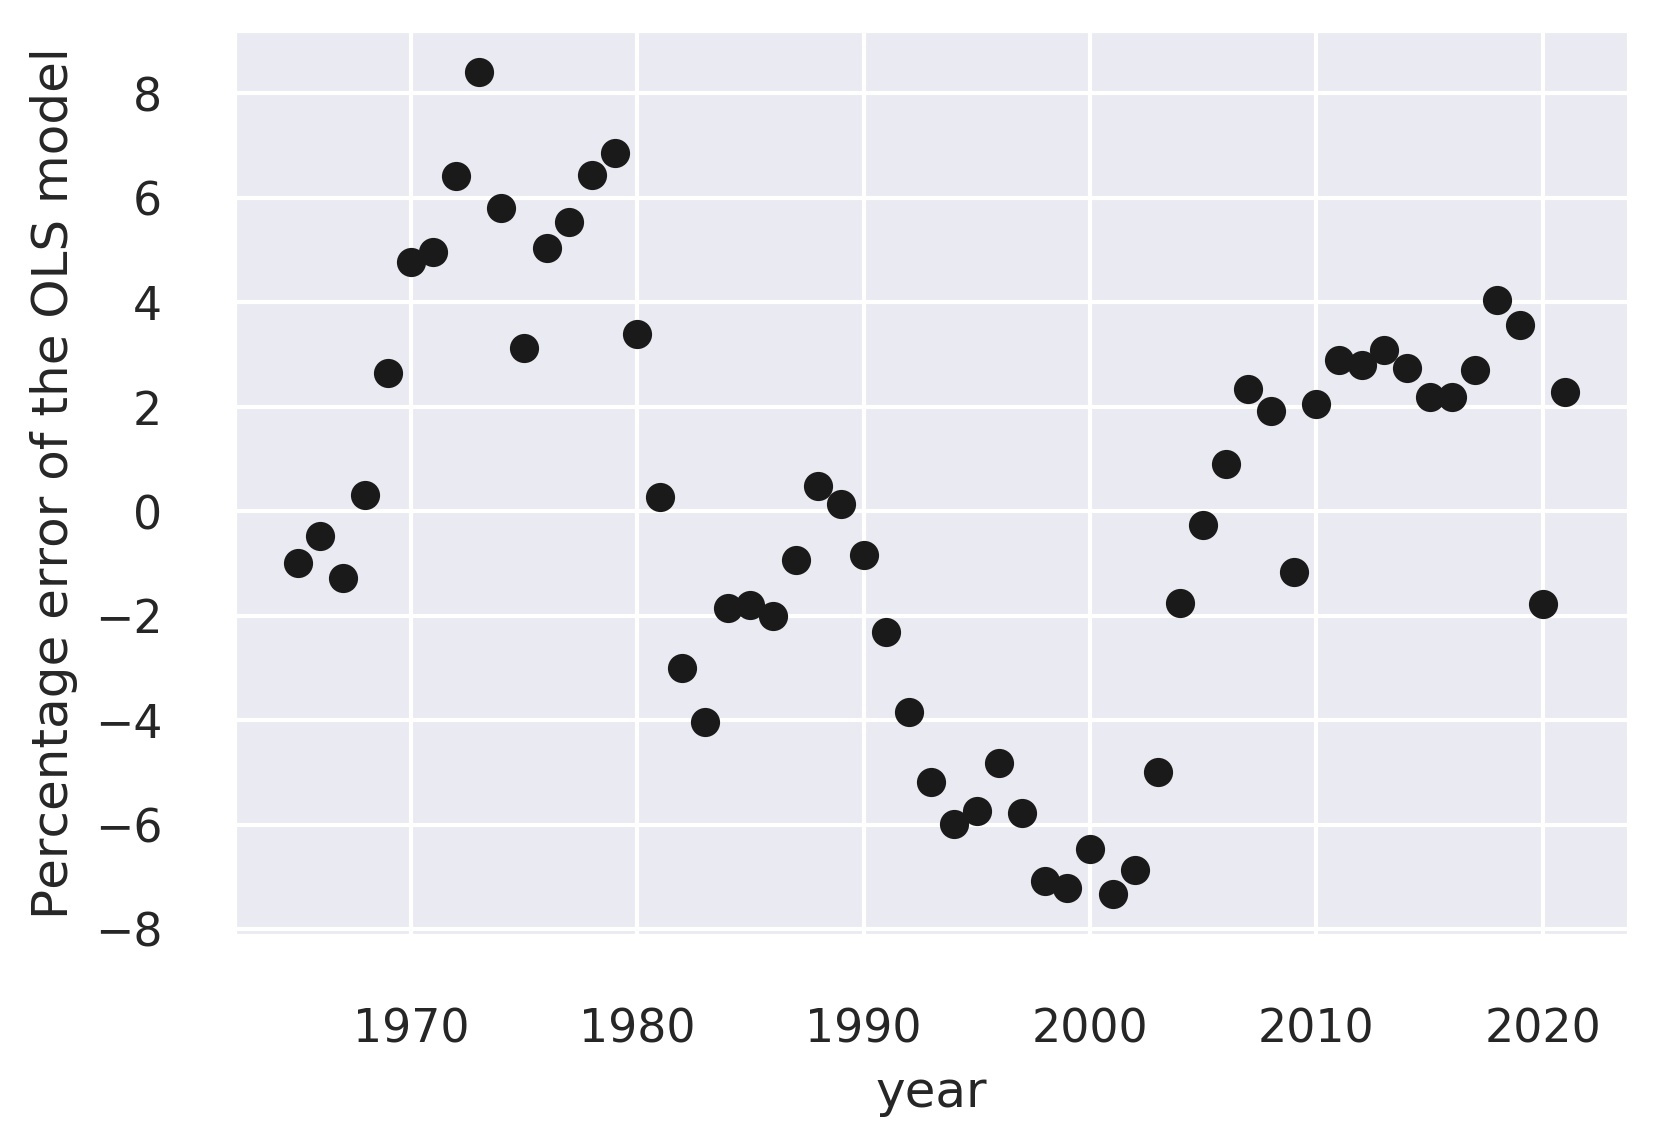
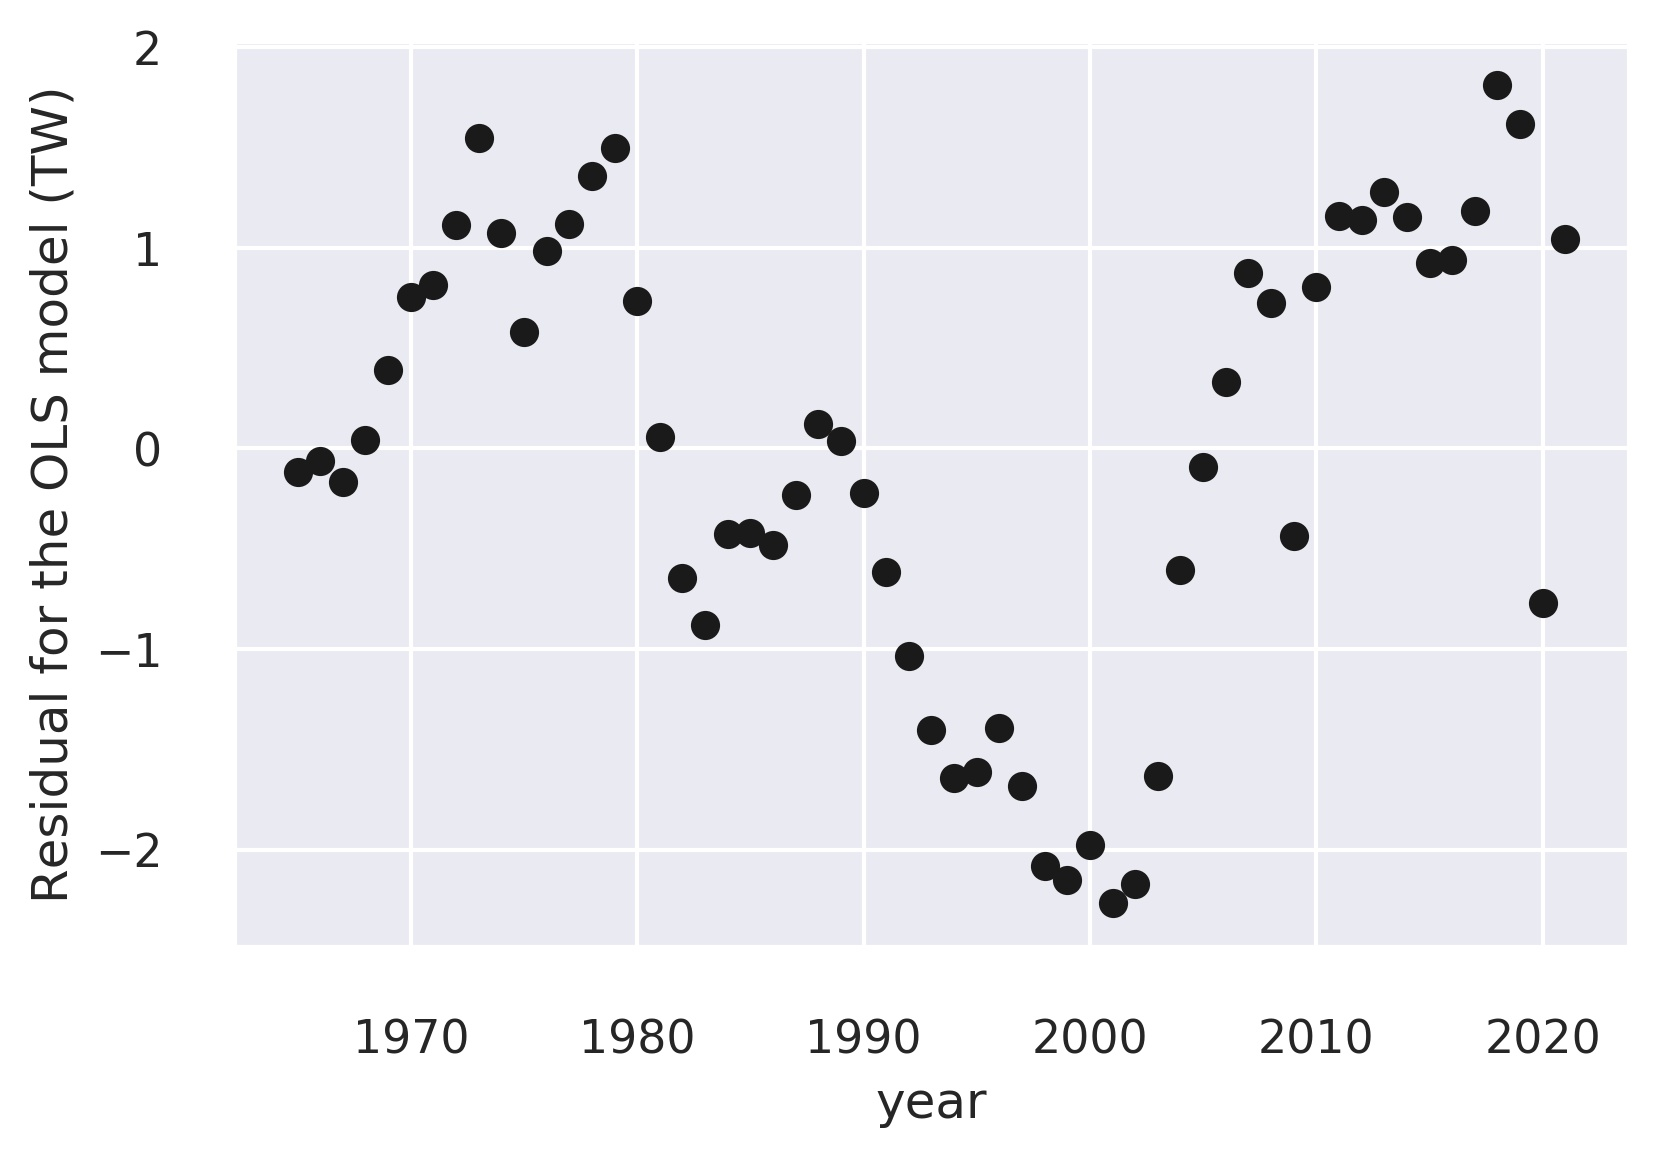
Updates from Overleaf

diff --git a/astroblock.tex b/astroblock.tex
@@ -101,7 +101,7 @@ Blockchain \sep Open Development
 \end{frontmatter}
 
 This white paper (WP) examines Public Open Blockchain (OB) ledger technology as a value optimization and interoperability agent for Astronomy Open Development (AOD). A comprehensive review of OB ledger technology: the evolution of protocols, key ideas \& primitives that lead to the so-called Nakamoto consensus effectively solving the Byzantine Generals problem defined by \cite{Lamport1982TheBG} is treated in  \cite{arvindandclark2017} and references therein. In Sec. \ref{sec:intro} of this WP a connection is made between OB to the possible evolution of the computer and computer data-science systems that have already co-evolved with advances in astronomy and astrophysics, hereafter astronomy. If OB technology is indeed a nascent corner-stone disruptive technology it seems reasonable for it to be considered for the Open Decentralized Development of Astronomy, as expanded on in Sec. \ref{sec:bc_review} and through-out this WP.  A short review of OB technology is given that is based on figure 1 of \cite{arvindandclark2017} that via the Nakamoto consensus includes DESCI and DEFI, two key ideas that are taken as implicit to AOD but made more explicit in this WP added schematically into 
-Fig. \ref{fig:narayanan}. In this short review other (block) chains based on other protocols are also identified, mostly for historical reasons but also because of potential of use in AOD. An astronomy token for AOD is also not ruled out, one that may be pre-mined and distributed to IVOA, IAU, Astropy and other identified community members. In Sec. \ref{sec:energy} a connection between OB and astronomy is made via the Kardashev relation, originally one between energy consumption versus time for civilizations reaching radio communication capability where it is shown that Energy data for our civilization is inconsistent with the family of constant percentage yearly increase models of global Energy production (when taken as an upper limit to consumption). Constant increase models have the form $(1+x)^{t}$, for $x<< 1$, and include the until now standard one-percent model as originally proposed by \cite{kar64} and by later studies, for example:  \citet{sagan73} and \cite{gray2020}. Data is shown not to be consistent with these constant increase models, since restricting $x$ to positive real values violates the property of memory conservation that for any civilization it is now argued would be sub-optimal to longevity. Kardashev's one percent growth-rate model for $x=0.01$, hereafter the 1\% model is therefore rejected over a preferred OLS linear re-normalized model. For the analysis we first empirically estimate the growth rate of the Kardashev relation with a linear OLS fit to data that offers considerably lower dispersion over six decades of time than does the exponential model. Interestingly the OLS linear fit when extrapolated to an energy production attainment equal the total bolometric luminosity of The Sun (equivalent to Kardashev type ii) results in a $\Delta T$ of about ten orders of magnitude greater than that predicted by the one-percent model as originally proposed by \cite{kar64}; in fact it is five orders of magnitude greater than $1/H{_0}$, where $H_{0}$ is the Hubble Constant, that is, the Hubble time or age of The Universe given the $\Lambda$CDM paradigm, that would seem to imply that there is no type ii civilization in The Universe! To reconcile the Kardashev type ii timescale of 3200 years, as predicted by the historical one-percent model with the Drake equation we assume a Nakamoto type consensus to be common in The Galaxy and so we take the Nakamoto consensus and build it into a new modified Kardashev model by re-normalizing the Total Energy Production metric by the Bitcoin hash-rate. In other words, the decision to re-normalize the OLS Kardashev fit was also made to fulfill the requirement of information-richness necessary to `Secure an enormous quantity of information', as originally proposed by Kardashev and simultaneously considering that the Drake equation that predicts the number of radio-capable civilizations in The Universe, includes the critical factor, $L$, that represents the average existence window for any advanced radio-capable civilization. Since most astronomers believe we are not alone, nor we are that advanced, so it may be somewhat expected that $L$ is dependant on the ability of co-operation and therefore a decentralized medium of exchange one sensitive to global issues (perhaps Universal, see Sec. Discussion) like energy production, war, environment and resource management, may also be required. Something that the Bitcoin network purports to fix. The timely nature of this WP may be reflected by the fact that in 2023 the Bulletin of the Atomic Scientists have forward the Doomsday Clock by ten seconds to 23h:58m:30s reaching 90 second to midnight, the closest it has come to midnight than in any other period in Human history and that there is some expectation that with the war in Europe it may be further adjusted forward towards midnight in Jan 2024. The renormalized Kardashev scale is argued to reflect a Universal common digital gold standard for AOD and beyond, one the paves the way forward for innovation through transactional protocols that are based on it that preserve information-richness.  In Sec. \ref{sec:btc4} specific use-cases of OB for AOD are selected and in Sec. 5 and 6 future application prospects and further discussion are respectively considered.
+Fig. \ref{fig:narayanan}. In this short review other (block) chains based on other protocols are also identified, mostly for historical reasons but also because of potential of use in AOD. An astronomy token for AOD is also not ruled out, one that may be pre-mined and distributed to IVOA, IAU, Astropy and other identified community members. In Sec. \ref{sec:energy} a connection between OB and astronomy is made via the Kardashev relation, originally one between energy consumption versus time for civilizations reaching radio communication capability where it is shown that Energy data for our civilization is inconsistent with the family of constant percentage yearly increase models of global Energy production (when taken as an upper limit to consumption). Constant increase models have the form $(1+x)^{t}$, for $x<< 1$, and include the until now standard one-percent model as originally proposed by \cite{kar64} and by later studies, for example:  \citet{sagan73} and \cite{gray2020}. Data is shown not to be consistent with these constant increase models, since restricting $x$ to positive real values violates the property of memory conservation that for any civilization it is now argued would be sub-optimal to longevity. Kardashev's one percent growth-rate model for $x=0.01$, hereafter the 1\% model is therefore rejected over a preferred OLS linear re-normalized model. For the analysis we first empirically estimate the growth rate of the Kardashev relation with a linear OLS fit to data that offers considerably lower dispersion over six decades of time than does the exponential model. Interestingly the OLS linear fit when extrapolated to an energy production attainment equal the total bolometric luminosity of The Sun (equivalent to Kardashev type ii) results in a $\Delta T$ of about ten orders of magnitude greater than that predicted by the one-percent model as originally proposed by \cite{kar64}; in fact it is five orders of magnitude greater than $1/H{_0}$, where $H_{0}$ is the Hubble Constant, that is, the Hubble time or age of The Universe given the $\Lambda$CDM paradigm. This would seem to imply that there is probably no type ii civilization in The Universe! To reconcile the Kardashev type ii timescale of 3200 years, as predicted by the historical one-percent model with the Drake equation, we assume a Nakamoto type consensus to be common in The Galaxy and so we take the Nakamoto consensus and build it into a new modified Kardashev model by re-normalizing the Total Energy Production metric by the Bitcoin hash-rate. In other words, the decision to re-normalize the OLS Kardashev fit was also made to fulfill the requirement of information-richness necessary to `Secure an enormous quantity of information', as originally proposed by Kardashev and simultaneously considering that the Drake equation that predicts the number of radio-capable civilizations in The Universe, includes the critical factor, $L$, that represents the average existence window for any advanced radio-capable civilization. Since most astronomers believe we are not alone, nor we are that advanced, so it may be somewhat expected that $L$ is dependant on the ability of co-operation and therefore a decentralized medium of exchange one sensitive to global issues (perhaps Universal, see Sec. Discussion) like energy production, war, environment and resource management, may also be required. Something that the Bitcoin network purports to fix. The timely nature of this WP may be reflected by the fact that in 2023 the Bulletin of the Atomic Scientists have forward the Doomsday Clock by ten seconds to 23h:58m:30s reaching 90 second to midnight, the closest it has come to midnight than in any other period in Human history and that there is some expectation that with the war in Europe it may be further adjusted forward towards midnight in Jan 2024. The renormalized Kardashev scale is argued to reflect a Universal common digital gold standard for AOD and beyond, one the paves the way forward for innovation through transactional protocols that are based on it that preserve information-richness.  In Sec. \ref{sec:btc4} specific use-cases of OB for AOD are selected and in Sec. 5 and 6 future application prospects and further discussion are respectively considered.
 
 %This WP starts out discussing the half-life career function \cite{milo_2018} of US PhD Astronomy majors as a broad proxy metric of value for the global market, chosen because of the sheer size of the US research astronomy labour market. This function trends towards historical lows and given the resources it costs to produce a PhD astronomy major, must be analyzed in some context. Perhaps this could be sufficient motivation for the consideration of a complimentary development Blockchain based system for astronomy OD, itself. However, other issues that have lead to artificial barriers in Astronomy \& astrophysics development are also explored in other sections of this paper. Finally, other STEM communities may also find use in this white-paper since Open Source and Open Development standard protocols appear to experience common data-science constraints and a unifying and converging of methods across different scientific disciplines manifest, so sufficient motivation of Blockchain Open Development for other STEM fields may be warranted. %\cite{GITTER2008529} to prevent closed patent licensing] or Pandemic COVID 'data-science'.
 
@@ -280,7 +280,7 @@ The Power data is taken directly from \href{https://github.com/owid/energy-data}
 
 The total bitcoin Hash-rate is estimated from the minning difficulty which is determined every two weeks and number of blocks being minned. For this study we use the \href{https://data.nasdaq.com/data/BCHAIN/HRATE-bitcoin-hash-rate}{hashrate}. We determine the mean yearly hash-rate for every year from 2009 to 2022. Table XX shows the average hash-rate and year. 
 
-We first show the original Kardashev model using the Power data from 1964 to 2021 and with an OLS fit linear model and solve our OLS fit to the type II Power limit as determined by \cite{kar64} that is also consistent with \cite{sagan73}. So we decide to renormalize the Power rate by assuming bitcoinization or bitcoin monitization and the extrapolation of Global Energy usage we assume Bitcoin value-layer to also be locked with Global Energy production. In \cite{sagan73} an alternate information metric is considered for the Kardashev law, one that includes information richness to characterize civilizations. This can be represented in a Binary operation even a Binary Tree which share the Hash tree or Merkel tree structure. Interesting, the Bitcoin Network Ledger which contains transaction information of every single Bitcoin transaction may also be used between non-humans. This may be the sense of "Smart Contracts" by Nick Szabo. The Bitcoin hash-rate as a function of time we take to represent a type of Energy Production metric and simultaneously preserve the Information richness required in our model. We take data complied from the International Energy Agency and BP, from \cite{owidenergy} and plot the total yearly power production available for The Earth. In Fig \ref{fig:kardashev1}, we show actual data since 1964 from \cite{owidenergy}. We show two models, the Kardashev Equation \ref{eq:2} 1\% model, taking the first point of the actual 1964 data and a OLS model to the data. Interesting the second last datum point shows a 3 percent decline in production in 2020 (Due to COVID) and a 5 percent increase in production in 2021 breaking the COVID-19 pandemic year! A slump due to the 2008 sub-prime crisis that gave rise to the Nakamoto consensus is shown. The extrapolated model is closely linear!
+We first show the original Kardashev model using the Power data from 1964 to 2021 and with an OLS fit linear model and solve our OLS fit to the type II Power limit as determined by \cite{kar64} that is also consistent with \cite{sagan73}. So we decide to renormalize the Power rate by assuming bitcoinization or bitcoin monitization and the extrapolation of Global Energy usage we assume Bitcoin value-layer to also be locked with Global Energy production. In \cite{sagan73} an alternate information metric is considered for the Kardashev law, one that includes information richness to characterize civilizations. This can be represented in a Binary operation even a Binary Tree which share the Hash tree or Merkel tree structure. Interesting, the Bitcoin Network Ledger which contains transaction information of every single Bitcoin transaction may also be used between non-humans. This may be the sense of "Smart Contracts" by Nick Szabo. The Bitcoin hash-rate as a function of time we take to represent a type of Energy Production metric and simultaneously preserve the Information richness required in our model. We take data complied from the International Energy Agency and BP, from \cite{owidenergy} and plot the total yearly power production available for The Earth. In Fig \ref{fig:kardashev1}, we show actual data since 1964 from \cite{owidenergy}. We show two models, the Kardashev Equation \ref{eq:2} 1\% model, taking the first point of the actual 1964 data and a OLS model to the data. Interesting the second last datum point shows a 3 percent decline in production in 2020 (Due to COVID) and a 5 percent increase in production in 2021 breaking the COVID-19 pandemic year! A slump due to the 2008 sub-prime crisis that gave rise to the Nakamoto consensus is shown. The extrapolated model is approximately linear!
 \begin{figure}
     \centering
     \includegraphics[width=0.5\textwidth]{figs/fig1_kard.jpg}
@@ -289,7 +289,7 @@ We first show the original Kardashev model using the Power data from 1964 to 202
 
 \end{figure}
 
-In Figure \ref{fig:kardashev3}, we show the same data on a log-log plot and include the Kardashev and Sagan Civilization Types I and II and the Solar Insolation value or the total energy of The Sun abosrbed by the clouds, oceans and Earth's surface. %It can be seen that the original Kardashev limit by \cite{kar64} of 4 TW was already reached but the T1- Sagan limit of 10000 TW from \cite{Sagan73} will be reached in about 20000 years. 
+In Fig. \ref{fig:kardashev3}, we show the same data on a log-log plot and include the Kardashev and Sagan Civilization Types I and II and the Solar Insolation value or the total energy of The Sun abosrbed by the clouds, oceans and Earth's surface. %It can be seen that the original Kardashev limit by \cite{kar64} of 4 TW was already reached but the T1- Sagan limit of 10000 TW from \cite{Sagan73} will be reached in about 20000 years. 
 
 
 \begin{figure}
@@ -302,8 +302,17 @@ In Figure \ref{fig:kardashev3}, we show the same data on a log-log plot and incl
 
 \begin{figure}
     \centering
+    \includegraphics[width=0.35\textwidth]{figs/fig1p_kar_rel_res.jpg}
+    \caption{Relative residual for the OLS
+    linear model}
+    \label{fig:kardashev1_rel_res}
+
+\end{figure}
+
+\begin{figure}
+    \centering
     \includegraphics[width=0.35\textwidth]{figs/fig1p_kar_res.jpg}
-    \caption{Percentage error between point and residual for the OLS
+    \caption{Residual for the OLS
     linear model}
     \label{fig:kardashev1_res}
 
@@ -311,15 +320,38 @@ In Figure \ref{fig:kardashev3}, we show the same data on a log-log plot and incl
 
 The figures show that the estimations of time required to reach Type-I and Type-II for Kardashev and Sagan with a simple average incremental extrapolation are indeed significantly off since real world data include yearly decrements in Energy production as well as yearly increments due to stokastic processes. As can be seen more recently in 2008 (sub-prime crisis) and 2020 COVID19 pandemic.
 
-We calculate the difference between successive years of the Energy Production from 1964 to 2021 using the Oneworld yearly total consumption data. A histogram of the distribution of values is shown in Fig. \ref{fig:his_power}. The distribution of differences has a measured skewness of -0.31 \cite{zw00}, a mean of 2.34 and standard deviation of 2.02. 
+We calculate the difference between successive years of the Energy Production from 1964 to 2021 using the Oneworld yearly total consumption data. 
+
+A histogram of the distribution of successive difference in the Power values is shown in Fig. \ref{fig:his_power}. 
 
 \begin{figure}
     \centering
-    \includegraphics[width=0.35\textwidth]{figs/fig_pc_powerdiff.jpg}
+    \includegraphics[width=0.35\textwidth]{figs/pp_his_kdetrue.png}
     \vspace*{-0.3cm}
     \caption{Histogram showing the \% power difference between successive years}
     \label{fig:his_power}
 \end{figure}
+
+The distribution of differences has a measured skewness of -0.31 \cite{zw00}, a mean of 2.34 and standard deviation of 2.02. The residual and relative residual of the data from the linear model are shown in Figs: \ref{fig:kardashev1_res} and \ref{fig:kardashev1_rel_res}, respectively and histograms of the distribution of residuals and relative residules shown in Figs. \ref{fig:his_res}, and \ref{fig:his_rel_res}, respectively.
+
+
+
+\begin{figure}
+    \centering
+    \includegraphics[width=0.35\textwidth]{figs/P_residual.png}
+    \vspace*{-0.3cm}
+    \caption{Histogram showing the residual of data}
+    \label{fig:his_res}
+\end{figure}
+
+\begin{figure}
+    \centering
+    \includegraphics[width=0.35\textwidth]{figs/P_rel_residual.png}
+    \vspace*{-0.3cm}
+    \caption{Histogram showing the rel residual of data}
+    \label{fig:his_rel_res}
+\end{figure}
+
 
 The Skewness of our sample is slightly negative perhaps because of man-made crisis like the 2008 subprime crisis and 2020 pandemic but on the grand scheme of things is approximately symmetric. To quantify this further, we perform a test on this data for normality using the Shapiro-Wilk test on Normally Distributed Data and obtain a test statistic and corresponding p-vale of 0.97 and 0.23, respectively. Since the p-value is not less than 0.05 we can not reject the null hypothesis so the conclude the Power difference sample is approximately consistent with being drawn from a Normal Distribution population. A similar result is obtained via an Anderson-Darling test for which we obtain a test statistic of 0.38, and critical values of 0.54, 0.62, 0.74,0.86 and 1.03, so we reject the null hypothesis at the 15, 10, 5, 2.5 and 1\% significance levels. Evidently the distribution although has some Skew and Kurtosis can not be ruled out to be derived from a normal distribution.
 
